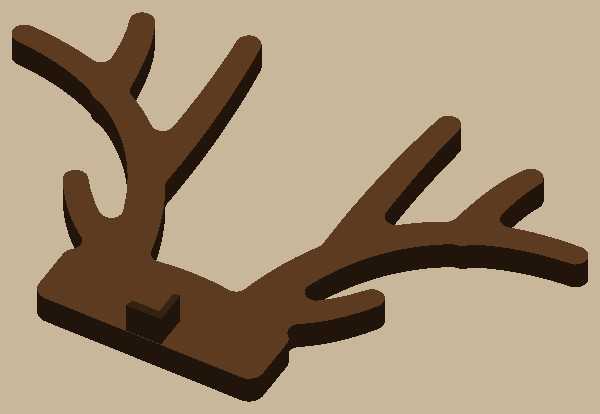
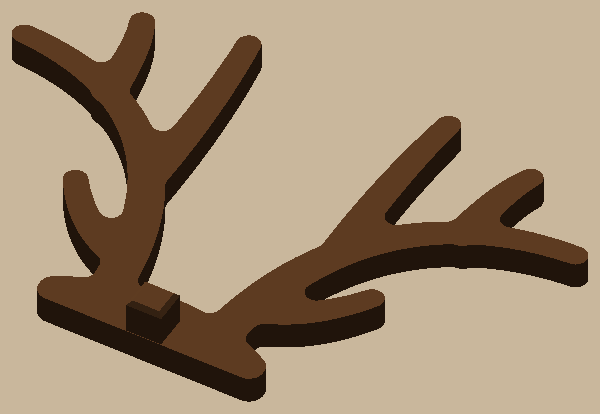
Sheep antlers: fit tabs 5.0-5.8 for the nub (4.8 was loose); band lowered to 8 mm, level with the head top

Changed region(s): [[0.21, 0.6087, 0.42, 0.7536], [0.39, 0.7826, 0.48, 0.9565], [0.06, 0.5797, 0.18, 0.6667]]

diff --git a/examples/sheep-antlers/sheep_antlers/parts.py b/examples/sheep-antlers/sheep_antlers/parts.py
@@ -1,6 +1,7 @@
 """The antlers in PRINT orientation: the plate on its back on the bed, the sheep's up along +Y, the nub pointing up
 (+Z, toward the sheep's nose). Drawn in 2D with shapely (tapered strokes, unioned and rounded), then extruded."""
-from build123d import Align, Box, Face, Part, Pos, Vector, Wire, chamfer, extrude
+from build123d import (Align, Box, BuildSketch, Face, Locations, Mode, Part, Pos, Rectangle, Vector, Wire,
+                       chamfer, extrude)
 from shapely import affinity
 from shapely.geometry import Point, Polygon, box
 from shapely.geometry.polygon import orient
@@ -50,8 +51,9 @@ def antler(p: Params = P):
 
 
 def band(p: Params = P):
-    """Behind the head: from the slot bottom up to an arc band_above over the head's top arc, rounded corners."""
-    arc = Point(0, p.head_top - p.head_r).buffer(p.head_r + p.band_above, quad_segs=64)
+    """Behind the head: from the slot bottom up to an arc band_h high on the center line, parallel to the head's top
+    arc, rounded corners."""
+    arc = Point(0, p.head_top - p.head_r).buffer(p.head_r + p.band_h - p.head_top, quad_segs=64)
     b = arc & box(-p.band_half, 0, p.band_half, p.height)
     return b.buffer(-2, quad_segs=16).buffer(2, quad_segs=16)
 
@@ -74,11 +76,33 @@ def face(g: Polygon) -> Face:
     return Face(ring(g.exterior), [ring(i) for i in g.interiors])
 
 
+def nub(p: Params, h: float, x: float, y: float, z: float) -> Part:
+    """The nub that shoves into the slot: nub_w along it, h across it (centered on y), nub_depth up from z,
+    chamfered tip."""
+    n = Pos(x, y, z) * Box(p.nub_w, h, p.nub_depth, align=(Align.CENTER, Align.CENTER, Align.MIN))
+    return chamfer(n.edges().group_by()[-1], p.nub_chamfer)
+
+
 def antlers(p: Params = P) -> Part:
     plate = Part(extrude(face(outline(p).simplify(0.01)), p.t).solids())
-    nub = Pos(center_x(p), p.nub_fit + p.nub_h / 2, p.t) * Box(p.nub_w, p.nub_h, p.nub_depth,
-                                                                align=(Align.CENTER, Align.CENTER, Align.MIN))
-    nub = chamfer(nub.edges().group_by()[-1], p.nub_chamfer)
-    out = Part((plate + nub).solids())
+    out = Part((plate + nub(p, p.nub_h, center_x(p), p.slot_h / 2, p.t)).solids())
     out.label = "sheep_antlers"
+    return out
+
+
+def fit_tab(p: Params, i: int) -> Part:
+    """Fit tab i: a tab_w x tab_h handle, tab_t thick, with a nub fit_heights[i] tall at its bottom edge (centered on
+    the slot like the antlers'), and i + 1 notches in its top edge to tell them apart."""
+    h = p.fit_heights[i]
+    y0 = min(0.0, p.slot_h / 2 - h / 2)  # the handle reaches the bottom of the tallest nub
+    with BuildSketch() as sk:
+        Rectangle(p.tab_w, p.tab_h - y0, align=(Align.MIN, Align.MIN))
+        n = i + 1
+        pitch = 2 * p.notch_w
+        xs = [p.tab_w / 2 + (k - (n - 1) / 2) * pitch for k in range(n)]
+        with Locations(*[(x, p.tab_h - y0) for x in xs]):
+            Rectangle(p.notch_w, p.notch_d, align=(Align.CENTER, Align.MAX), mode=Mode.SUBTRACT)
+    handle = Part(extrude(sk.sketch, p.tab_t).solids())
+    out = Part((handle + nub(p, h, p.tab_w / 2, p.slot_h / 2 - y0, p.tab_t)).solids())
+    out.label = f"fit_tab_{i + 1}"
     return out

diff --git a/examples/sheep-antlers/tests/test_fit_tabs.py b/examples/sheep-antlers/tests/test_fit_tabs.py
@@ -1,0 +1,59 @@
+"""Fit tabs: one nub per height in fit_heights on a small flat handle, numbered by notches, to pick nub_h."""
+import pytest
+from build123d import Align, Box, Pos
+
+from cadkit import slicers
+from cadkit.checks import downward_faces, off_layer_z, open_edges, printable_problems
+from cadkit.settings import settings
+from sheep_antlers import build
+from sheep_antlers.params import P
+from sheep_antlers.parts import fit_tab
+
+
+@pytest.fixture(scope="module", params=range(len(P.fit_heights)))
+def tab(request):
+    return request.param, fit_tab(P, request.param)
+
+
+def test_prints_flat_one_solid(tab):
+    _, t = tab
+    assert printable_problems(t, P.printer) == []
+    assert open_edges(t) == 0
+    assert off_layer_z(t, P.printer) == []
+    assert downward_faces(t) == []
+
+
+def test_nub_is_its_height(tab):
+    i, t = tab
+    probe = Pos(-100, -100, P.tab_t + 0.1) * Box(200, 200, P.nub_depth - P.nub_chamfer - 0.2,
+                                                   align=(Align.MIN,) * 3)
+    bb = (t & probe).bounding_box()
+    assert bb.size.Y == pytest.approx(P.fit_heights[i], abs=0.02)
+    assert bb.size.X == pytest.approx(P.nub_w, abs=0.02)
+    assert t.bounding_box().max.Z == pytest.approx(P.tab_t + P.nub_depth, abs=1e-3)
+
+
+def test_notches_count_the_tab(tab):
+    """A probe along the top edge cuts the handle into notch-count + 1 pieces."""
+    i, t = tab
+    bb = t.bounding_box()
+    probe = Pos(-100, bb.max.Y - P.notch_d / 2, 0.1) * Box(200, 0.1, P.tab_t - 0.2, align=(Align.MIN,) * 3)
+    assert len((t & probe).solids()) == i + 2
+
+
+def test_build_writes_a_fit_tab_plate(tmp_path):
+    assert build.main(["--out", str(tmp_path)]) == 0
+    s = slicers.active()
+    got = {n: f for n, f, _ in s.read_filaments(tmp_path / "plates" / f"fit_tabs_1{s.project_suffix}")}
+    assert set(got) == {f"fit_tab_{i + 1}" for i in range(len(P.fit_heights))}
+    assert set(got.values()) == {settings().filament(P.filament_brown)}
+
+
+@pytest.mark.skipif(not slicers.active().available(), reason="no slicer installed (settings: slicer)")
+def test_slicer_slices_the_tabs(tmp_path):
+    build.main(["--out", str(tmp_path)])
+    s = slicers.active()
+    plate = tmp_path / "plates" / f"fit_tabs_1{s.project_suffix}"
+    assert s.same_objects(s.roundtrip(plate), plate)
+    report = s.slice_report(plate, tmp_path / "s.3mf")
+    assert [r[0] for r in report["layers"]] == [(settings().filament(P.filament_brown),)]

diff --git a/examples/sheep-antlers/sheep_antlers/params.py b/examples/sheep-antlers/sheep_antlers/params.py
@@ -17,13 +17,20 @@ class Params:
     head_r: float = 30.0  # the head's top arc, seen from behind: a guess from the photos (chord 30 -> ~4 mm sag)
     # the nub: a short block, not the whole slot, so the slot's curve doesn't matter
     nub_w: float = 5.0  # along the slot
-    nub_fit: float = 0.1  # under the slot's height, each side: shove-in snug
+    nub_h: float = 4.8  # across the slot, centered on it: 4.8 was too loose (2026-11-27); pick from the fit tabs
     nub_depth: float = 5.0  # into the slot (it goes at least 5 mm deep)
     nub_chamfer: float = 0.6  # lead-in on the tip
+    # the fit tabs: one nub per height on a small handle, notches on top count 1, 2, 3...
+    fit_heights: tuple = (5.0, 5.2, 5.4, 5.6, 5.8)
+    tab_w: float = 12.0
+    tab_h: float = 12.0
+    tab_t: float = 2.0
+    notch_w: float = 1.0
+    notch_d: float = 2.0
     # the plate
     t: float = 4.0  # thickness: 20 layers, stiff in PETG
     band_half: float = 16.0  # the band behind the head, out to here each side
-    band_above: float = 5.0  # band shows this far above the head top, like a headband
+    band_h: float = 8.0  # band from the slot bottom to its top on the center line: level with the head top, hidden
     span: float = 82.0  # antler tip to tip (sheep is just shy of 3.5" = 88 mm across the ears)
     rise: float = 45.0  # top tine above the top of the head
     root_x: float = 8.0  # where each beam leaves the band
@@ -38,16 +45,12 @@ class Params:
 
     def __post_init__(self):
         """Heights land on the printer's layers (yours, from cadkit.settings), so the plate and nub tops print whole."""
-        for name in ("t", "nub_depth"):
+        for name in ("t", "nub_depth", "tab_t"):
             object.__setattr__(self, name, self.printer.snap(getattr(self, name)))
         if self.tip_w < 6 * self.printer.nozzle:
             raise ValueError(f"tip_w {self.tip_w} is under 6 lines of {self.printer.nozzle}: tips would snap off")
         if not self.root_x + self.beam_w < self.span / 2:
             raise ValueError(f"span {self.span} too narrow for roots at {self.root_x}")
-
-    @property
-    def nub_h(self) -> float:
-        return self.slot_h - 2 * self.nub_fit
 
     @property
     def head_top(self) -> float:

diff --git a/examples/sheep-antlers/sheep_antlers/build.py b/examples/sheep-antlers/sheep_antlers/build.py
@@ -4,14 +4,14 @@ import argparse
 import sys
 from pathlib import Path
 
-from build123d import Color, export_step
+from build123d import Color, Pos, export_step
 
 from cadkit import bambu3mf
 from cadkit.export import write_plates
 from cadkit.plates import Plate, pack
 from cadkit.render import render
 from sheep_antlers.params import P
-from sheep_antlers.parts import antlers
+from sheep_antlers.parts import antlers, fit_tab
 
 
 def main(argv: list[str] | None = None) -> int:
@@ -22,13 +22,18 @@ def main(argv: list[str] | None = None) -> int:
     step = out / "step" / "sheep_antlers.step"
     step.parent.mkdir(parents=True, exist_ok=True)
     export_step(a, step)
-    beds = pack([("sheep_antlers", a)], P.printer)
+    tabs = [fit_tab(P, i) for i in range(len(P.fit_heights))]
     ams = bambu3mf.write_settings(out / "bambu_project_settings.config", list(P.filaments))
-    write_plates([Plate(f"sheep_antlers_{n + 1}", 1, items) for n, items in enumerate(beds)], out / "plates",
-                 out / "plates.csv", lambda name: P.filament_brown, settings=ams)
+    plates = [Plate(f"sheep_antlers_{n + 1}", 1, items)
+              for n, items in enumerate(pack([("sheep_antlers", a)], P.printer))]
+    plates += [Plate(f"fit_tabs_{n + 1}", 1, items)
+               for n, items in enumerate(pack([(t.label, t) for t in tabs], P.printer))]
+    write_plates(plates, out / "plates", out / "plates.csv", lambda name: P.filament_brown, settings=ams)
     brown = Color(0.42, 0.27, 0.15)
     render([(a, brown)], out / "render" / "front.png", view=(0, 0, 1), px=600, crop=True)
     render([(a, brown)], out / "render" / "iso.png", view=(0.4, -0.7, 0.8), px=600, crop=True)
+    row = [Pos(k * (P.tab_w + 4), 0, 0) * t for k, t in enumerate(tabs)]
+    render([(t, brown) for t in row], out / "render" / "fit_tabs.png", view=(0.3, -0.8, 0.8), px=600, crop=True)
     print(f"wrote {out}/ (plates.csv lists what to print)")
     return 0
 

diff --git a/examples/sheep-antlers/tests/test_antlers.py b/examples/sheep-antlers/tests/test_antlers.py
@@ -44,7 +44,7 @@ def test_nub_fits_the_slot(part):
     bb = nub.bounding_box()
     assert bb.size.X == pytest.approx(P.nub_w, abs=0.02)
     assert bb.size.Y == pytest.approx(P.nub_h, abs=0.02)
-    assert bb.min.Y == pytest.approx(P.nub_fit, abs=0.02)  # centered in the slot's height
+    assert (bb.min.Y + bb.max.Y) / 2 == pytest.approx(P.slot_h / 2, abs=0.02)  # centered on the slot
     assert (bb.min.X + bb.max.X) / 2 == pytest.approx(center_x(P), abs=0.02)
     assert part.bounding_box().max.Z == pytest.approx(P.t + P.nub_depth, abs=1e-3)
 
@@ -54,12 +54,14 @@ def test_nub_tip_has_a_lead_in(part):
     assert tip.size.Y < P.nub_h - P.nub_chamfer
 
 
-def test_band_shows_above_the_head(part):
-    """On the center line the plate runs solid from the slot up past the head top by band_above."""
+def test_band_is_only_band_h_tall(part):
+    """On the center line the plate runs solid from the slot bottom to band_h (level with the head top: no thick
+    brown showing above it), then nothing until the antlers."""
     probe = Pos(center_x(P) - 0.05, -1, 0.1) * Box(0.1, 200, P.t - 0.2, align=(Align.MIN,) * 3)
     spans = sorted((b.min.Y, b.max.Y) for b in (s.bounding_box() for s in (part & probe).solids()))
     assert spans[0][0] == pytest.approx(0, abs=1e-3)
-    assert spans[0][1] == pytest.approx(P.head_top + P.band_above, abs=0.05)
+    assert spans[0][1] == pytest.approx(P.band_h, abs=0.05)
+    assert len(spans) == 1
 
 
 def test_tips_are_not_too_thin(part):

diff --git a/examples/sheep-antlers/README.md b/examples/sheep-antlers/README.md
@@ -3,9 +3,16 @@
 <img src="docs/images/front.png" width="49%" alt="Reindeer antlers: two branching antlers rising from a curved band"> <img src="docs/images/iso.png" width="49%" alt="The antlers lying flat as printed, with the nub that goes into the sheep's slot">
 
 Reindeer antlers for the little black sheep head: a flat 4 mm plate that sits against the back of the head, with a
-5 × 4.8 mm nub, 5 mm long, that shoves into the arc-shaped slot there. The band shows 5 mm above the head like a
-headband; the antlers are 82 mm tip to tip and rise 45 mm over the head. Brown PETG (AMS slot 2), one piece, lies
-flat, no supports. Sizes in `sheep_antlers/params.py`; design in `docs/specs/sheep-antlers.md`.
+5 mm wide nub, 5 mm long, that shoves into the arc-shaped slot there. The band behind the head is 8 mm tall, level
+with the head top, so only the antlers show; they are 82 mm tip to tip and rise 45 mm over the head. Brown PETG (AMS slot 2), one piece, lies
+flat, no supports. 
+
+<img src="docs/images/fit_tabs.png" width="60%" alt="Five fit tabs, nubs 5.0 to 5.8 mm tall, numbered by notches">
+
+Fit tabs first (`out/plates/fit_tabs_1.3mf`): nubs 5.0, 5.2, 5.4, 5.6, 5.8 mm tall, numbered 1–5 by the notches on
+top. Shove each into the slot; put the one that holds in `nub_h`.
+
+Sizes in `sheep_antlers/params.py`; design in `docs/specs/sheep-antlers.md`.
 
 ```bash
 uv sync

diff --git a/examples/sheep-antlers/docs/specs/sheep-antlers.md b/examples/sheep-antlers/docs/specs/sheep-antlers.md
@@ -14,7 +14,7 @@ Reindeer antlers for a small black sheep-head figure, held by its slot. A Santa 
 ## Shape
 
 - A flat 4 mm plate behind the head: a band ±16 mm wide following the head's top arc (guessed at R 30 from the
-  slot's chord) and 5 mm above it, so it shows like a headband.
+  slot's chord) and 5 mm above it, so it shows like a headband (see amendments: now hidden).
 - Two mirrored antlers from the band: a beam curving up and out to 82 mm tip to tip (the sheep is just shy of 88 mm
   across the ears), a tall inner tine 45 mm over the head, an outer tine, a short brow tine. Strokes taper
   5.5 → 3.2 mm (beam) and 4.5 → 3.2 mm (tines), round tips, 1.5 mm rounds where they join.
@@ -24,3 +24,8 @@ Reindeer antlers for a small black sheep-head figure, held by its slot. A Santa 
 - Lies on its back, nub up. Brown PETG (AMS slot 2), one plate, no supports, no color changes.
 
 ## Amendments
+
+- 2026-11-27: the first print's nub (4.8 mm) was too loose. Fit tabs added: five 12 × 12 × 2 mm handles with nubs
+  5.0 / 5.2 / 5.4 / 5.6 / 5.8 mm tall (1–5 notches on top), their own plate. Put the winner in `nub_h`.
+- 2026-11-27: the band showed as thick brown over the head (13 mm on the center line). Now 8 mm (`band_h`), level
+  with the head top, so it hides behind the head and only the antlers show.
